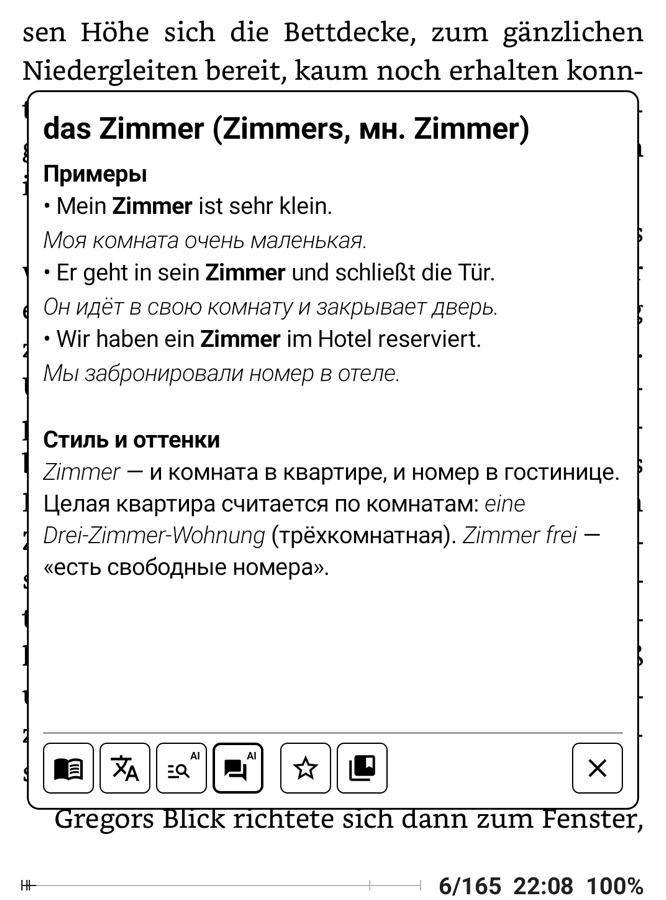
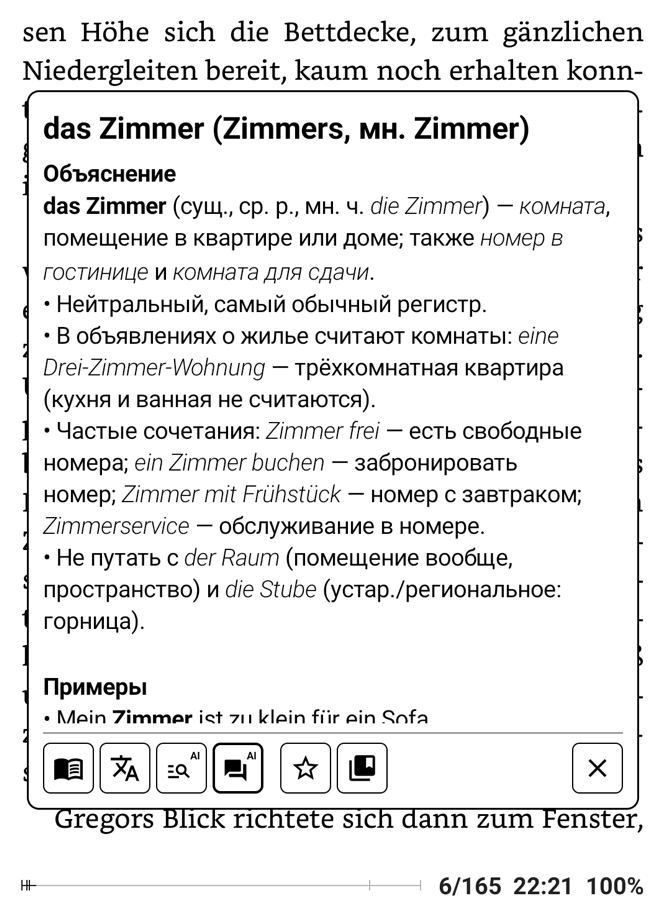
AI: Analysis = Grammar + Words, Context = Explanation + Examples, the prompts of v0.2's tabs (more informative), each part under 120 words unless it needs more; opening any AI tab sends all three requests at once, the open one first

diff --git a/app/src/main/java/io/github/kafeg/inkpeek/ai/Ai.kt b/app/src/main/java/io/github/kafeg/inkpeek/ai/Ai.kt
@@ -68,8 +68,8 @@ data class Action(val id: String) {
 }
 
 /**
- * The two AI requests, each answered as one JSON object: [QUICK] on card open (head facts + translation, the Translate
- * tab), [DETAIL] on the first tap of Analysis or Context (fills both). Placeholders: {text}, {lang}.
+ * The AI requests, each answered as one JSON object: [QUICK] for Translate (head facts + translation), [ANALYSIS] and
+ * [CONTEXT] for their tabs; opening any AI tab sends all three at once. Placeholders: {text}, {lang}.
  */
 enum class Ask(val prompt: String, val fields: Map<String, Any>, val maxTokens: Long) {
     QUICK("Selected text: «{text}». Answer with one JSON object, these keys only:\n" +
@@ -89,18 +89,25 @@ enum class Ask(val prompt: String, val fields: Map<String, Any>, val maxTokens: 
         "Grammar, examples and comments do not belong here: other tabs give them.",
         mapOf("base" to "s", "article" to "s", "plural" to "s", "pos" to "s", "forms" to "s", "irregular" to "b",
             "form_of" to "s", "meanings" to "a", "translation" to "s"), 1024),
-    DETAIL("Selected text: «{text}». Answer with one JSON object, these keys only; text in {lang} with light Markdown " +
+    // The two AI tabs, one request each; the parts as in the separate tabs before (v0.2), the app adds the headings.
+    ANALYSIS("Selected text: «{text}». Answer with one JSON object, these keys only; text in {lang} with light Markdown " +
+        "(**bold**, *italic*, \"- \" lists), no headings: the app adds them.\n" +
+        "- grammar: at most 7 short lines, the words you talk about in **bold**. A single word: which form of which " +
+        "**base form** it is, how it is built, and the forms a learner of this language needs to use it correctly. A " +
+        "phrase: how it is built and why — the constructions that matter in this language (word order, agreement, which " +
+        "word requires which form, tense, aspect or mood) and the rule behind them. A passage: every construction that " +
+        "matters, up to 10 lines.\n" +
+        "- words: a phrase or a passage: the words a learner may not know, \"**base form** — short meaning\" each (at most " +
+        "20 for a passage), very common words skipped; a single word: its **base form**, 2–3 synonyms and related words, " +
+        "each \"**word** — short meaning\".",
+        mapOf("grammar" to "s", "words" to "a"), 3000),
+    CONTEXT("Selected text: «{text}». Answer with one JSON object, these keys only; text in {lang} with light Markdown " +
         "(**bold**, *italic*), no headings: the app adds them.\n" +
-        "- usage: a single word: what a learner needs to use it (forms, case or preposition it takes, separable prefix, " +
-        "reflexive), a few short lines. A phrase: how it is built and why (word order, agreement, which word requires which " +
-        "form, tense, mood) and the rule behind it. A passage: every construction that matters, up to 10 \"- \" lines.\n" +
-        "- words: a single word: 2–3 synonyms and related words; a phrase: the words a learner may not know; a passage: up " +
-        "to 15 harder words. Each item \"**base form** — short meaning\".\n" +
-        "- examples: a word or phrase: exactly 3 short everyday sentences in the text's own language with it in **bold**, " +
-        "each with its translation into {lang}; [] for a passage.\n" +
-        "- notes: a word or phrase: one line on register, idioms or nuances, \"\" when there is nothing useful; a passage: " +
-        "what happens and what is implied, briefly.",
-        mapOf("usage" to "s", "words" to "a", "examples" to "e", "notes" to "s"), 3000);
+        "- explanation: what it means here, register, idioms and nuances; a passage: what happens and what is implied, " +
+        "briefly.\n" +
+        "- examples: a word or phrase: 3 short everyday sentences in the text's own language with it in **bold**, each " +
+        "with its translation into {lang}; [] for a passage.",
+        mapOf("explanation" to "s", "examples" to "e"), 3000);
 
     /** Changes with the prompt, so saved answers of an older prompt are not shown. */
     val version: Int get() = prompt.hashCode()
@@ -125,7 +132,8 @@ object Ai {
     private fun system(lang: String) = "You are a concise dictionary and language tutor inside an e-book reader on an " +
         "e-ink screen. Write every answer in $lang only. If the text is already in $lang, answer like an explanatory " +
         "dictionary of $lang instead of translating. Formatting: only **bold** and *italic*, short lines, simple \"- \" " +
-        "lists inside JSON string values. No headings, tables or code. Be brief. You see only the selected text, " +
+        "lists inside JSON string values. No headings, tables or code. Keep each part under 120 words unless it needs " +
+        "more. You see only the selected text, " +
         "not the sentence around it: do not guess a context (a preposition, a speaker) that is not in the text."
     // The answer comes in one piece, so the read timeout must cover the whole generation.
     private val http = OkHttpClient.Builder().callTimeout(45, TimeUnit.SECONDS).readTimeout(45, TimeUnit.SECONDS).build()

diff --git a/app/src/main/java/io/github/kafeg/inkpeek/ui/AiPage.kt b/app/src/main/java/io/github/kafeg/inkpeek/ui/AiPage.kt
@@ -11,12 +11,12 @@ import kotlinx.coroutines.delay
 import kotlinx.coroutines.launch
 import org.json.JSONObject
 
-/** The AI tabs, Analysis and Context: both read the detailed answer, each under the app's own headings. */
+/** The AI tabs: Analysis (Grammar, Words) and Context (Explanation, Examples), under the app's own headings. */
 class AiPage(private val card: CardActivity) {
     fun fill(p: LinearLayout, tab: String) {
         val out = Ink.text(card, "", card.size); p.addView(out)
         card.launch {
-            val r = await(out, Ask.DETAIL)
+            val r = await(out, ask(tab))
             r.fold({ card.markdown(out, render(tab, it)) }, { e ->
                 // The error, and for a phrase or passage the offline gloss under it; the tab asks again next time.
                 out.text = if (e is Answers.Offline) card.getString(R.string.err_offline) else aiError(card, card.prefs, card.online, e)
@@ -26,9 +26,11 @@ class AiPage(private val card: CardActivity) {
         }
     }
 
-    /** The answer, with "Thinking…" in [out] while it is asked. */
+    fun ask(tab: String) = if (tab == "context") Ask.CONTEXT else Ask.ANALYSIS
+
+    /** The answer, with "Thinking…" in [out] while it is asked; the other AI requests go out with it. */
     suspend fun CoroutineScope.await(out: TextView, ask: Ask): Result<JSONObject> {
-        val d = card.answers.get(card, ask)
+        val d = card.answers.all(card, ask)
         val dots = if (d.isCompleted) null else launch { var n = 0; while (true) { out.text = card.getString(R.string.thinking) + ".".repeat(n % 3 + 1); n++; delay(700) } }
         return d.await().also { dots?.cancel() }
     }
@@ -39,14 +41,11 @@ class AiPage(private val card: CardActivity) {
     fun render(tab: String, j: JSONObject): String {
         val kind = card.kind; val s = { id: Int -> card.getString(id) }
         return when (tab) {
-            "analysis" -> sections(
-                s(when (kind) { Kind.WORD -> R.string.sec_usage_word; Kind.PHRASE -> R.string.sec_usage_phrase; else -> R.string.sec_usage_passage }) to j.str("usage"),
-                s(if (kind == Kind.WORD) R.string.sec_related else R.string.sec_words) to
-                    j.optJSONArray("words")?.let { a -> (0 until a.length()).joinToString("\n") { "- " + a.optString(it).trim().removePrefix("- ") } }.orEmpty())
-            "context" -> sections(
+            "analysis" -> sections(s(R.string.sec_grammar) to j.str("grammar"),
+                s(R.string.sec_words) to j.optJSONArray("words")?.let { a -> (0 until a.length()).joinToString("\n") { "- " + a.optString(it).trim().removePrefix("- ") } }.orEmpty())
+            "context" -> sections(s(R.string.sec_explanation) to j.str("explanation"),
                 s(R.string.sec_examples) to j.optJSONArray("examples")?.let { a -> (0 until a.length()).mapNotNull { a.optJSONObject(it) }
-                    .joinToString("\n") { e -> "- " + e.str("text") + "\n*" + e.str("translation") + "*" } }.orEmpty(),
-                s(if (kind == Kind.PASSAGE) R.string.sec_meaning else R.string.sec_notes) to j.str("notes"))
+                    .joinToString("\n") { e -> "- " + e.str("text") + "\n*" + e.str("translation") + "*" } }.orEmpty())
             else -> {
                 // Translate by AI: its view of the word ("das Haus · die Häuser", the verb's forms, irregular), the translation.
                 val facts = if (kind != Kind.WORD) "" else j.str("forms").ifBlank {

diff --git a/app/src/main/java/io/github/kafeg/inkpeek/ui/CardActivity.kt b/app/src/main/java/io/github/kafeg/inkpeek/ui/CardActivity.kt
@@ -127,11 +127,11 @@ class CardActivity : Activity(), CoroutineScope by MainScope() {
         fun add(v: View, first: Boolean = false) = bar.addView(v, Ink.lp(android.view.ViewGroup.LayoutParams.WRAP_CONTENT).apply { if (!first) leftMargin = gap })
         tabs.forEachIndexed { i, (id, icon, label) ->
             val isAi = id != DICT && id != TRANSLATE
-            add(iconButton(icon, label, side, ai = isAi) { if (isAi) launch { val r = withContext(Dispatchers.IO) { answers.block(Ask.DETAIL) }
+            add(iconButton(icon, label, side, ai = isAi) { if (isAi) launch { val r = withContext(Dispatchers.IO) { answers.block(ai.ask(id)) }
                 if (r != null) toast(getString(r)) else open(id) } else open(id) }.also { tabButtons[id] = it }, i == 0)
         }
         // AI tabs are dimmed while AI cannot answer; a saved answer still opens offline.
-        launch { val blocked = withContext(Dispatchers.IO) { answers.block(Ask.DETAIL) }
+        launch { val blocked = withContext(Dispatchers.IO) { answers.block(Ask.ANALYSIS) }
             actions.forEach { tabButtons[it.id]?.alpha = if (blocked == null) 1f else 0.35f } }
         bar.addView(View(this), Ink.lp(gap * 2, 1))
         val star = iconButton(R.drawable.ic_star, getString(R.string.save_word), side) { toggleSaved() }

diff --git a/app/src/test/java/io/github/kafeg/inkpeek/ai/AiTest.kt b/app/src/test/java/io/github/kafeg/inkpeek/ai/AiTest.kt
@@ -40,7 +40,7 @@ class AiTest {
             assertEquals("дом", Ai.ask(Provider.CUSTOM, "", "m", Ask.QUICK, "Haus", "Russian", url).getString("translation"))
             assertEquals(listOf(true, false), seen)
             seen.clear()
-            assertEquals("дом", Ai.ask(Provider.CUSTOM, "", "m", Ask.DETAIL, "Haus", "Russian", url).getString("translation"))
+            assertEquals("дом", Ai.ask(Provider.CUSTOM, "", "m", Ask.ANALYSIS, "Haus", "Russian", url).getString("translation"))
             assertEquals(listOf(false), seen) // remembered: one call
         } finally { ss.close() }
     }

diff --git a/app/src/main/java/io/github/kafeg/inkpeek/ai/Answers.kt b/app/src/main/java/io/github/kafeg/inkpeek/ai/Answers.kt
@@ -28,6 +28,10 @@ class Answers(private val prefs: Prefs, private val store: Store, private val te
         } }.also { started[ask] = it }
     }
 
+    /** Every request at once, [first] first: whichever AI tab opens, the others' answers are on their way and saved. */
+    fun all(scope: CoroutineScope, first: Ask): Deferred<Result<JSONObject>> =
+        get(scope, first).also { Ask.entries.filter { it != first }.forEach { a -> get(scope, a) } }
+
     /** Why an AI tab cannot open now (a string id), or null. Blocking. */
     fun block(ask: Ask): Int? {
         val pr = prefs.provider

diff --git a/README.md b/README.md
@@ -23,8 +23,8 @@ Made for Android e-ink readers (Onyx Boox and others); works on any Android devi
 form: <i>Träumen</i> → <i>Traum</i>.</td>
 <td valign="top"><b>Translate a sentence or a paragraph.</b> On the device, without the internet; or by AI when
 you set it up.</td>
-<td valign="top"><b>Understand why it is said this way.</b> Analysis (AI): how it is built and the rule behind it,
-then the harder words, in sections.</td>
+<td valign="top"><b>Understand why it is said this way.</b> Analysis (AI): Grammar — which form, how it is built,
+the rule behind it — and Words.</td>
 </tr>
 <tr>
 <td width="33%"><img src="docs/img/card-context.png" alt="Examples of a word in context"></td>
@@ -32,8 +32,8 @@ then the harder words, in sections.</td>
 <td width="33%"><img src="docs/img/settings-languages.png" alt="Language packs to download"></td>
 </tr>
 <tr>
-<td valign="top"><b>See it in use.</b> Context (AI): three everyday sentences with a translation, then register and
-nuances.</td>
+<td valign="top"><b>See it in use.</b> Context (AI): Explanation — what it means here, register, idioms — and
+Examples with a translation.</td>
 <td valign="top"><b>Word by word, offline.</b> A selected sentence gets a gloss from the language packs: each word with
 its base form and meaning. Tap a word to open its entry.</td>
 <td valign="top"><b>Choose your languages.</b> Tick the pairs you read; each pack brings a dictionary and offline
@@ -102,8 +102,9 @@ If another dictionary app answers the same request, Android asks which one to us
   sentence: the word-by-word gloss.
 - **Translate**: by AI when it can answer (set up and online), offline on the device otherwise — both are tabs, the
   available one first. Which language it was and how sits in small print at the card's bottom.
-- **AI tabs** (marked "AI", dimmed when AI cannot answer): Analysis and Context, each in sections. A tab asks only when
-  you open it; the answer is kept with the history entry and goes when you remove that entry.
+- **AI tabs** (marked "AI", dimmed when AI cannot answer): Analysis — Grammar and Words; Context — Explanation and
+  Examples. Opening any AI tab asks for all of them at once (the open one first), so the others open instantly; the
+  answers are kept with the history entry and go when you remove that entry.
 - What you selected decides what the tabs do: one word, a short phrase (up to 8 words), or a passage (longer, or more
   than one sentence).
 - **My words**: ☆ saves a word or phrase; the app keeps the history too, each entry with one short line.

diff --git a/docs/spec.md b/docs/spec.md
@@ -94,11 +94,9 @@ that resolves a form (Häuser → Haus) makes the base form be looked up in the 
   Prompts: `Ask` in `ai/Ai.kt`, placeholders `{text}`, `{lang}`.
   - **Quick**, on opening AI translation: `base`, `article`, `plural`, `pos` (gender of the original word), `forms`,
     `irregular`, `form_of`, `meanings`, `translation` (keeps the sentence type). Shown only in the AI translation tab.
-  - **Detail**, on the first open of Analysis or Context, in parts; the app writes the headings (localized, the same
-    every time): `usage` (word: how to use it; phrase: how it is built and why; passage: constructions), `words`
-    (word: synonyms and related; else the harder words, "**base** — meaning"), `examples` (3 × {text, translation};
-    none for a passage), `notes` (register and nuances; passage: what it says). Analysis = usage + words, Context =
-    examples + notes; an empty part is not shown. Fills both tabs.
+  - **Analysis** (`grammar`, `words`) and **Context** (`explanation`, `examples`: 3 × {text, translation}, none for a
+    passage), the prompts of v0.2's separate tabs; the app writes the headings (Grammar, Words; Explanation, Examples).
+    Opening any AI tab, or Translate's AI tab, sends all three requests at once, the open one first; each is saved.
 - System prompt: answer only in `{lang}`; a text already in `{lang}` gets an explanatory-dictionary answer; light
   Markdown only (**bold**, *italic*, "- " lists) rendered in the card; brief; the model sees only the selection and
   must not guess its sentence.
